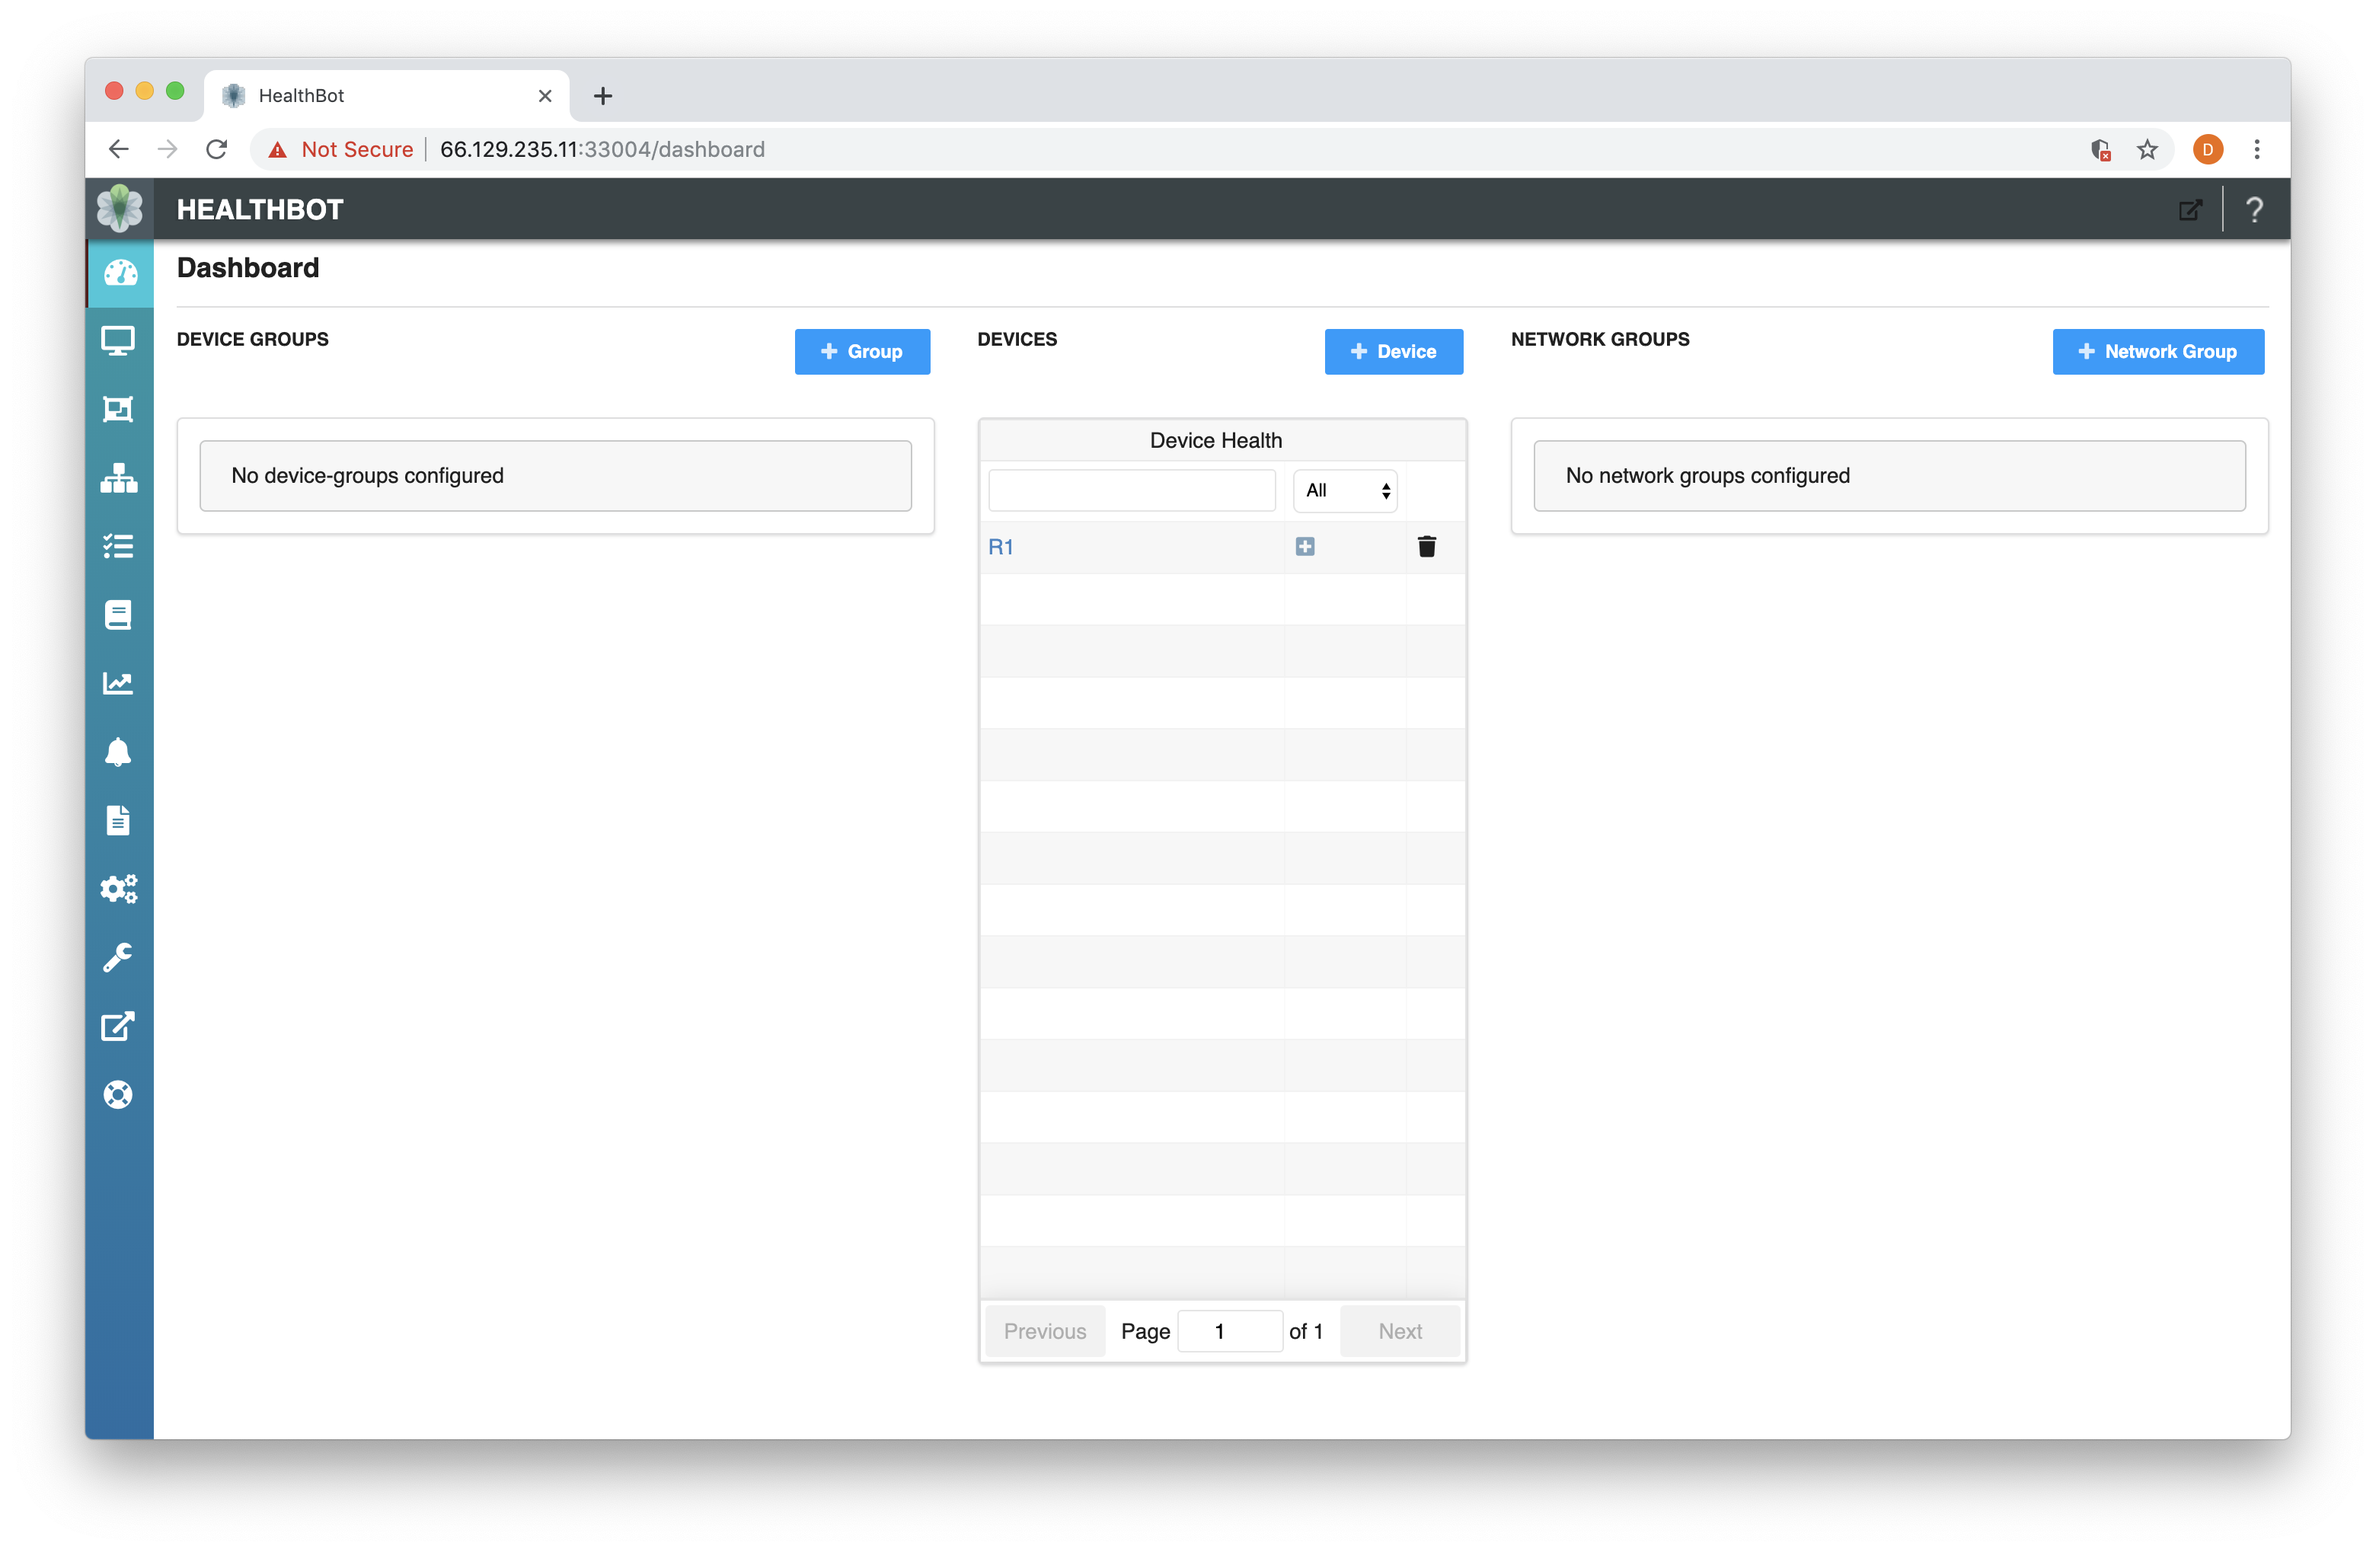
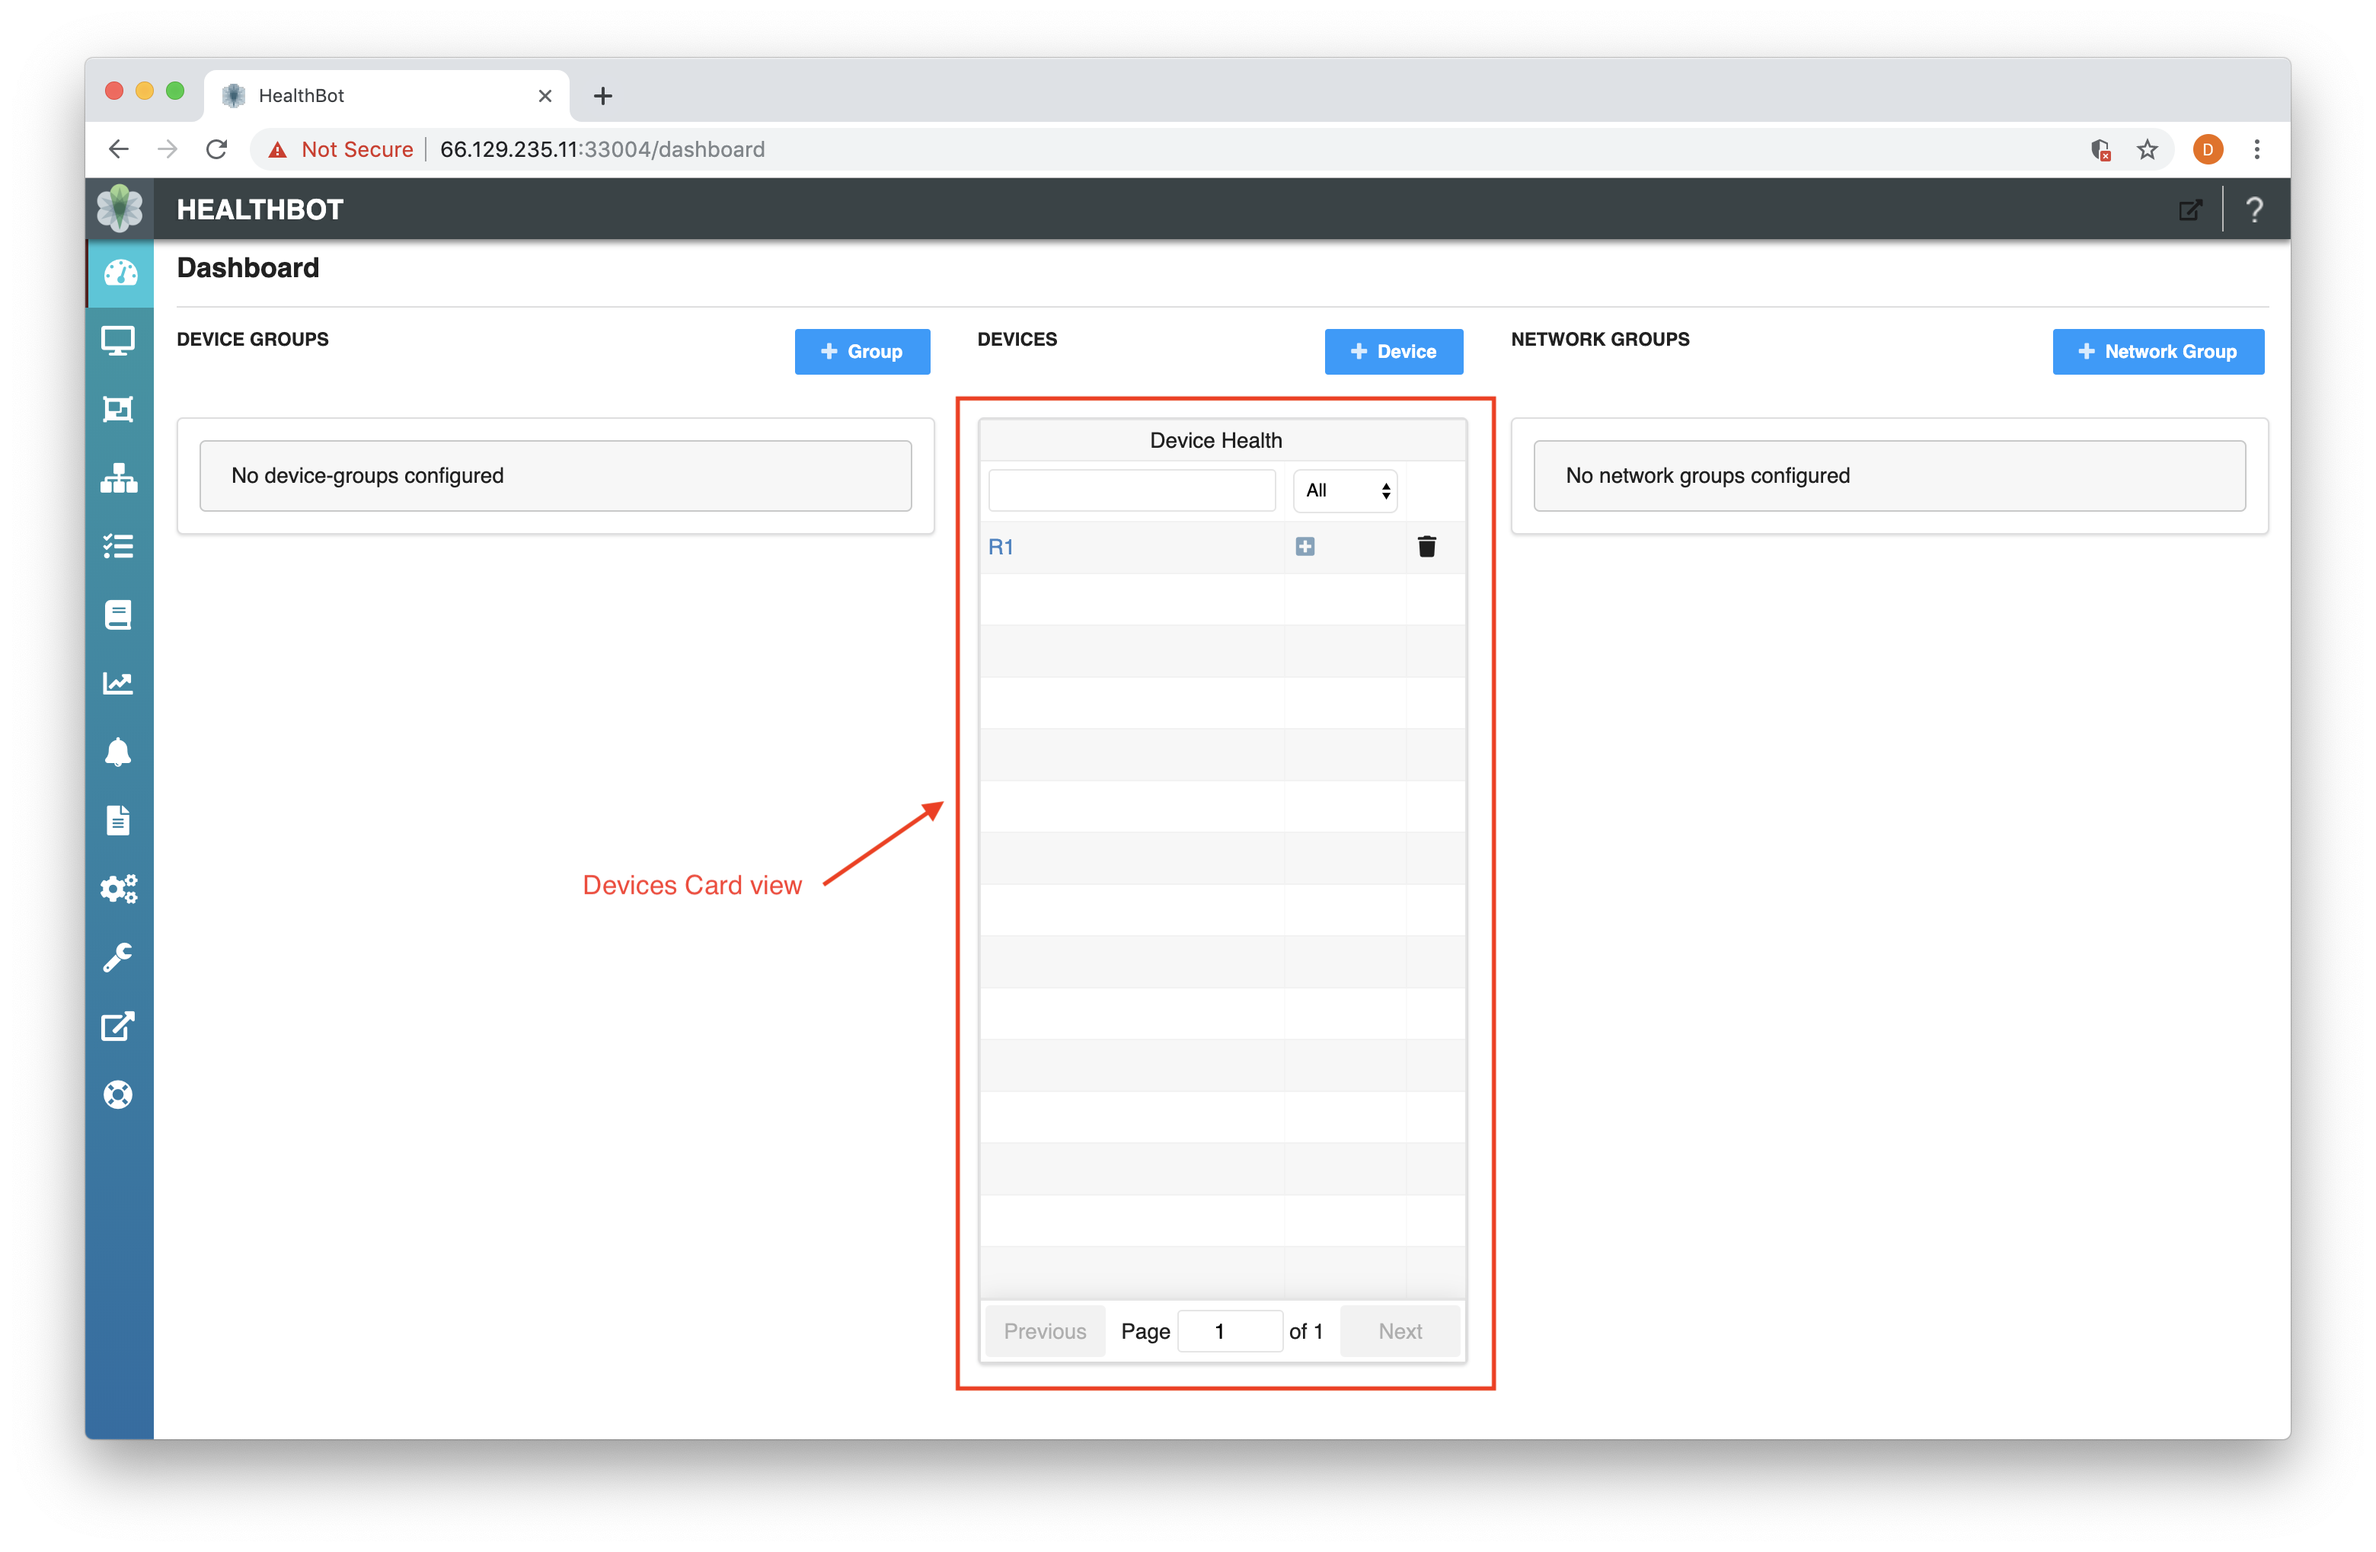
add group support

diff --git a/docs/quickstart.md b/docs/quickstart.md
@@ -15,11 +15,11 @@ The process required to do this is as follows:
 
 There are a number of steps required to go from a blank system to a monitoring Devices.
 
-- Provisioning the Device
-- Registering the Device within Healthbot
-- Grouping Devices based on a business classifer
-- Instanatiating a Playbooks against Device Groups
-- Monitoring the KPIs within your network and reacting based on Network incidents
+1. Provisioning the Device
+2. Registering the Device within Healthbot
+3. Grouping Devices based on a business classifer
+4. Instanatiating a Playbooks against Device Groups
+5. Monitoring the KPIs within your network and reacting based on Network incidents
 
 Each of these steps are defined below;
 
@@ -53,6 +53,8 @@ This will open a pop-up window as below. At this point you need to provide the f
 ```
 Device Name: R1
 Device Ip Address: 100.123.1.0
+Username: jcluser
+Password: *****
 ```
 
 Assuming your Device is a JUNOS Device, the remaining information can be left as default.
@@ -63,11 +65,32 @@ At this point go ahead and select **Save and Deploy**. Assuming everyting worked
 
 ![Registered Device](assets/register/registered-device.png)
 
+Note in the **Devices Card View** you can see a single entry for the Device you registered, in my case **Device R1**.
+
 ## Group
 
 When one or more Devices are available within Healthbot we can **group them using a classifier** that is relevant to our network. For e.g. we could defines groups for Customer Equipment or Provider Equipment, or we could group on region, ownership or any other criteria relevant to our organisation.
 
-Why do we want to group Devices? Within Healthbot Playbooks are instanitated against Device Groupings (or Network Groupings).
+Why do we want to group Devices? Within Healthbot, Playbooks are instanitated against Device Groupings (or Network Groupings).
+
+To classify one or more Devices within Healthbot, navigate to the Dashboard page and select **+ Group** button.
+
+![Add Group Button](assets/group/add-group-button.png)
+
+This will open a pop-up window as below. At this point you need to provide the following information about your Device Group:
+
+```
+Device Group Name: Customer-Equipment
+Devices: R1
+```
+
+Assuming your Device is a JUNOS Device, the remaining information can be left as default.
+
+![Add Group](assets/group/add-group.png)
+
+At this point go ahead and select **Save and Deploy**. Assuming everyting worked ok you should now see a screen as follows:
+
+![Grouped Device](assets/group/grouped-device.png)
 
 ## Instanitate
 
